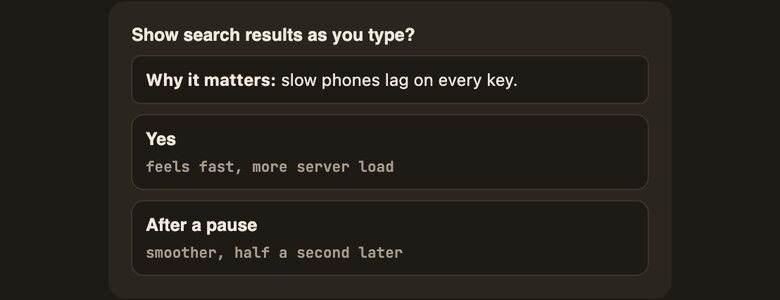
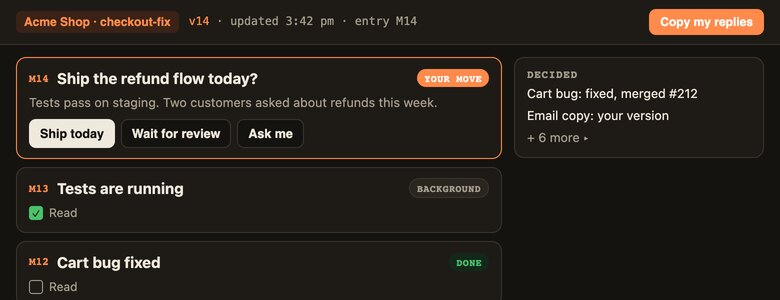
working-log: new picture of the log itself, and words that lead with the hook

diff --git a/README.md b/README.md
@@ -111,15 +111,15 @@ Opens every page at desktop, laptop and phone sizes and measures it: text too sm
 
 [Read the visual-qa page](https://workingben.github.io/proofs/visual-qa.html)
 
-### working-log: a page Claude talks to you through when the terminal fails you
+### working-log: never scroll endless terminal output again
 
-<img src="docs/cards/working-log.jpg" width="100%" alt="A log entry asking a question, with the reason and two answers.">
+<img src="docs/cards/working-log.jpg" width="100%" alt="A working log: a session bar with a Copy my replies button, the newest entry asking whether to ship the refund flow with answer buttons, a background entry ticked as read, and settled items folded to the side.">
 
-A newest-first log that Claude republishes as it works. Questions come with buttons, every entry has a read tick, and one Copy button sends your answers back.
+Claude keeps one page up to date while it works. The newest news sits on top, every question comes with answer buttons, and each entry has a read tick. Tap your answers, press Copy, paste. Check it from the couch on your phone, and nothing you need is buried 400 lines up.
 
-- Nothing gets lost in the terminal
-- Read it from your phone
-- Answered items move to a Settled list
+- Questions you answer with a tap
+- Read it on your phone, anywhere
+- Settled items fold out of the way
 
 [Read the working-log page](https://workingben.github.io/proofs/working-log.html)
 
